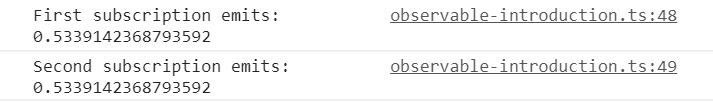
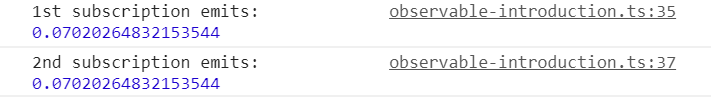
made good examples to showcase difference between cold and hot observables

diff --git a/rxjs.tex b/rxjs.tex
@@ -2,14 +2,21 @@
 Rx ist eine Library, die für zahlreiche Programmiersprachen zur Verfügung gestellt wird. Diese finden sowohl in der Frontend als auch in der Backend-Implementierung Anwendung. In dieser Arbeit wird der Fokus auf RxJS geworfen. Diese Library ist eine Erweiterung speziell für Javascript/Typescript. RxJS erlaubt es mit Hilfe von Observable-Sequenzen Event-basierte Programme zu erstellen. Dabei wird dieser Ansatz auch als reactive Programming definiert. Neben der Kernfunktionalität von Observables werden auch Subjects und Schedulers geboten. Sollte man von reactive Programming noch nichts gehört haben, dann wird die größte Herausforderung sein \glqq{}reactive\grqq{} zu denken.
 
 \subsection{Reactive Programming}
-Im Kern ist reactive Programming ein Programmierparadigma. Hierbei richtet sich das Entwickeln auf asynchrone Datenflüssen. Als Beispiel für eine reaktive Anwendung kann Excel genommen werden. Ändert man einen Wert in einer Zelle, ändert sich auch der Wert in der Summenzelle. Die Zelle, deren Wert geändert wurde, löst ein Event aus, den die Summen-Zelle empfängt. Daraufhin findet eine Neuberechnung statt.\cite{reactive-programming-beispiel} Laut der offiziellen Dokumentation richtet sich ReactiveX nach dem Beobachter-Muster (engl. Observer-Pattern). Das Observer-Pattern ist ein Entwurfsmuster, in der Änderungen eines Objektes (Subjects genannt) an einer Liste abhängiger Strukturen weitergereicht wird. Diese abhängige Strukturen (Observers) werden bei jeder Zustandsveränderung informiert. Eine Veränderung eines Objekts kann hierbei gleichgesetzt werden mit einem Datenfluss. Datenflüsse können aus verschiedensten Operationen entstehen wie z.B. Klick-Events, Variablen, Cache etc. Als Observer kann man sich in diesem Datenfluss einhängen und entsprechend reagieren.\cite{rx-intro} Rx bietet eine enorme Menge an Funktionen diese Datenflüsse zu bearbeiten/manipulieren (siehe Sektion Operatoren). Diese Operatoren komplett abzudecken wird in dieser Arbeit unmöglich sein, jedoch wird nach dem behandeln dieses Kapitels ein gewisses Grundverständnis für neue Operatoren entstehen und wie diese in Folge anzuwenden sind. Die grundlegenden Konzepte, um asynchrone Events in RxJS zu steuern, sind:
+Im Kern ist reactive Programming ein Programmierparadigma. Im \textbf{reaktiven Manifest}, zu finden unter
+
+\begin{center}
+\url{https://www.reactivemanifesto.org/de},
+\end{center}
+
+\noindent
+wird bereits beschrieben, dass Reactive Programming als Programmierung mit asynchronen, immutable Streams von Events bezeichnet wird. Laut der offiziellen Dokumentation richtet sich ReactiveX nach dem Beobachter-Muster (engl. Observer-Pattern). Das Observer-Pattern ist ein Entwurfsmuster, in der Änderungen eines Objektes (Subjects genannt) an einer Liste abhängiger Strukturen weitergereicht wird. Diese abhängige Strukturen (Observers) werden bei jeder Zustandsveränderung informiert. Eine Veränderung eines Objekts kann hierbei gleichgesetzt werden mit neuen Wert innerhalb eines Datenflusses. Als Beispiel für eine reaktive Anwendung kann Excel genommen werden. Ändert man einen Wert in einer Zelle, ändert sich auch der Wert in der Summenzelle. Die Zelle, deren Wert geändert wurde, löst ein Event aus, den die Summen-Zelle empfängt. Daraufhin findet eine Neuberechnung statt.\cite{reactive-programming-beispiel} Datenflüsse können aus verschiedensten Operationen entstehen wie z.B. Klick-Events, Variablen, Cache etc. Als Observer kann man sich in diesem Datenfluss einhängen und entsprechend reagieren.\cite{rx-intro} Rx bietet eine enorme Menge an Funktionen diese Datenflüsse zu bearbeiten/manipulieren (siehe Sektion Operatoren). Diese Operatoren komplett abzudecken wird in dieser Arbeit unmöglich sein, jedoch wird nach dem behandeln dieses Kapitels ein gewisses Grundverständnis für neue Operatoren entstehen und wie diese in Folge anzuwenden sind. Die grundlegenden Konzepte, um asynchrone Events in RxJS zu steuern, sind:
 
 \begin{itemize}
     \item Observable: Repräsentiert die Idee einer abrufbaren Sammlung, in der zukünftige Werte oder Events gelagert sind.
     \item Observer: Eine Sammlung von Callbacks die, die  aus dem Observable-Stream gelieferten Werte, abrufen.
     \item Subscription: Repräsentiert das Aufrufen eines Observable.
     \item Operators: Funktionen, die das Verhalten von Observable-Streams beeinflussen.
-    \item Subjects: Eventgeneratoren, die Events an zuhörende Observer zurückgibt. Im Gegensatz zu Observables, ist hier ein Multicasting der Werte an die Observer möglich.
+    \item Subjects: Eventgeneratoren, die Events an zuhörende Observer zurückgibt. Im Gegensatz zu Observables, sind Subjects standardmäßig multicasting fähig.
     \item Schedulers: Steuerungsmechanismen die bestimmen, wann eine Subscription startet und wann Werte aus dem Stream an die Observer übermittelt werden.
 \end{itemize}
 
@@ -27,7 +34,7 @@ Observables sind eine träge Sammlung von multiplen Werten. Sie füllen den fehl
 \end{center}
 
 \noindent
-Das Push- und Pull-Prinzip beschreibt dabei wie ein Daten-Produzent mit dem Daten-Verarbeiter kommuniziert. In \textbf{Pull-Systemen} bestimmt der Verarbeiter, wann die Daten vom Ersteller angenommen werden. Der Ersteller selbst weiß nicht wann die Daten angefragt werden. Jede Javascript Funktion unterliegt einem Pull-System. Die Funktion ist ein Verarbeiter von Daten und diese kann im Code jederzeit abgerufen werden.\\
+Das Push- und Pull-Prinzip beschreibt dabei wie ein Datenproduzent mit dem Datenverarbeiter kommuniziert. In \textbf{Pull-Systemen} bestimmt der Verarbeiter, wann die Daten vom Ersteller angenommen werden. Der Ersteller selbst weiß nicht wann die Daten angefragt werden. Jede Javascript Funktion unterliegt einem Pull-System. Die Funktion ist ein Verarbeiter von Daten und diese kann im Code jederzeit abgerufen werden.\\
 
 \noindent
 Das \textbf{Push-Prinzip} wird im nächsten Beispiel deutlich. Vor dem Ausführen des Beispiels muss folgend konfiguriert werden:
@@ -88,7 +95,7 @@ Bei einer Subscription können drei verschiedene Events auftreten und somit drei
 \end{itemize}
 
 \noindent
-In Push-Systemen steuert der Daten-Produzent, wann die Daten an die Zuhörenden übermittelt werden. Der Daten-Verarbeiter weiß dabei nicht, wann die Daten ankommen. Promises sind ein typisches Beispiel für Push-Systeme. Ein Promise (Produzent) übermittelt einen eingetroffenen Wert an angeschlossene Callbacks( Verarbeiter). Ungleich wie mit Funktionen bestimmen Promises, wann die Werte an die Callbacks weitergereicht wird. Observables zählen zu einem neuen Push-System in Javascript. Im Gegensatz zu Promises emittieren Observables multiple Werte in Form von Streams. Zur Unterscheidung:
+In Push-Systemen steuert der Datenproduzent, wann die Daten an die Zu-hörenden übermittelt werden. Der Datenverarbeiter weiß dabei nicht, wann die Daten ankommen. Promises sind ein typisches Beispiel für Push-Systeme. Ein Promise (Produzent) übermittelt einen eingetroffenen Wert an angeschlossene Callbacks (Verarbeiter). Ungleich wie mit Funktionen bestimmen Promises, wann die Werte an die Callbacks weitergereicht wird. Observables zählen zu einem neuen Push-System in Javascript. Im Gegensatz zu Promises emittieren Observables multiple Werte in Form von Streams. Zur Unterscheidung:
 
 \begin{itemize}
 \item Eine Funktion ist eine träge ausführende Operation, die beim Abruf ein Wert synchron zurückgibt.
@@ -97,7 +104,7 @@ In Push-Systemen steuert der Daten-Produzent, wann die Daten an die Zuhörenden 
 \end{itemize}
 
 \noindent
-Hierbei stellt sich die Frage, was bedeutet träge? Träge Funktionen, im englischen auch als \textit{lazy Functions} bezeichnet, sind Funktionen die erst bei ihrem Aufruf Werte produzieren. Beispiel:
+Hierbei stellt sich die Frage, was bedeutet träge? Träge Funktionen, im englischen auch als \textit{lazy Functions} bezeichnet, sind Funktionen die erst bei ihrem Aufruf Werte produzieren.\cite{lazy-functions}
 
 \begin{figure}[H]
 \begin{lstlisting}[basicstyle=\small]
@@ -111,7 +118,6 @@ console.log(x);
 const y = foo.call(this); // same as foo()
 console.log(y);
 \end{lstlisting}
-\caption{Funktionen sind träge. \cite{lazy-functions}}
 \end{figure}
 
 \begin{figure}[H]
@@ -128,11 +134,11 @@ foo.subscribe((y) => {
   console.log(y);
 });
 \end{lstlisting}
-\caption{Observables verhalten sich gleich.}
 \end{figure}
 
 \noindent
 Der Output bleibt immer derselbe:
+
 \begin{figure}[H]
 \begin{center}
 \includegraphics{observable-lazy-console}
@@ -144,27 +150,25 @@ Das liegt daran, da sowohl Funktionen als auch Observables träge sind. Die Oper
 Der Hauptpunkt in dem Observables sich von Funktionen unterscheiden ist, dass Observables mehrere Werte (mit der Zeit) emittieren können. Innerhalb einer Funktion ist es nicht Möglich zwei return Ausdrücke einzubauen, die zusammen ausgegeben werden.
 
 \subsubsection{Anatomie eines Observable}
-Observables werden entweder mit der create Methode, mit einer Observable-Instanz oder mit der Hilfe eines Observable Operators \textbf{erstellt}. Der Datenfluss wird an den Observern mit der subscribe()-Methode \textbf{überreicht}. Als Letztes kann ein Observable und somit sein Datenfluss \textbf{geschlossen} werden.
+Observables werden entweder mit der create Methode, mit einer Observable-Instanz oder mit der Hilfe eines Observable Operators \textbf{erstellt}. Die Sequenzkette wird an den Observern mit der subscribe()-Methode \textbf{überreicht}. Letzteres kann ein Observable \textbf{abgesetzt} werden.
 
 \subsubsection{Observables erstellen}
 
 \begin{figure}[H]
 \begin{lstlisting}[basicstyle=\small]
-const root = new Observable<string>(observer => {
-    setInterval(() => observer.next('hi'), 2000);
+const randomNumber = new Observable<number>(observer => {
+    observer.next(Math.random());
 });
-
-root.subscribe((val: string) => console.log(val));
 \end{lstlisting}
-\caption{Observables verhalten sich gleich.}
+\caption{Instantiierung eines Observables, als Parameter wird ein Callback angenommen.}
 \end{figure}
 
 \noindent
-Die statische Methode Observable.create() ist ein alias ist zum Konstruktor-Aufruf. Für gewöhnlich werden jedoch Operatoren mit den sog. \textit{creation operators} wie \textbf{of}, \textbf{from}, \textbf{interval} etc. erstellt. In dem oben angeführten Beispiel wird zudem die subscribe()-Methode aufgerufen, um die Stream-Werte abzurufen. Im nächsten Abschnitt wird erklärt, wie genau eine Subscription abläuft.\\
+Die statische Methode Observable.create() ist ein alias ist zum Konstruktor-Aufruf. Für gewöhnlich werden jedoch sog. \textit{creation operators} wie \textbf{of}, \textbf{from}, \textbf{interval} etc. angewendet, um Observables zu erstellen. Im nächsten Abschnitt werden die verschiedenen Observable-Typen gegenübergestellt.
 
-\subsubsection{Observables überreichen}
+\subsubsection{Sequenzkette überreichen}
 
-Beim Aufruf der subscribe()-Methode wird ein eigenständiger Datenfluss an den Observer überreicht. Das hat zur Folge, dass Observer sich dem gleichen Observable-Stream anschließen und dennoch unterschiedliche Werte bekommen können.
+Beim Aufruf der subscribe()-Methode überreicht der Datenproduzent ein eigenständigen Datenfluss an die Observer. Das hat zur Folge, dass mehrere Observer sich dem gleichen Observable anschließen und dennoch unterschiedliche Werte bekommen können.
 
 \begin{figure}[H]
 \begin{lstlisting}[basicstyle=\small]
@@ -172,13 +176,20 @@ const randomNumber = new Observable<number>(observer => {
     observer.next(Math.random());
 });
 
-randomNumber.subscribe(value => console.log('First subscription emits: ' + value));
-randomNumber.subscribe(value => console.log('Second subscription emits: ' + value));
+randomNumber.subscribe(value =>
+    console.log('1st subscription emits: ', value));
+randomNumber.subscribe(value =>
+    console.log('2nd subscription emits: ', value));
 \end{lstlisting}
 \end{figure}
 
+\begin{figure}[H]
+\begin{center}
+\includegraphics[width=12cm]{unicasting-observables}
+\end{center}
+\end{figure}
 \noindent
-Diese Eigenschaft wird als \textbf{unicasting} bezeichnet. Das ist nur Möglich, da die Funktion random() erst dann aufgerufen wird, wenn ein Observable mit der subscribe()-Methode aufgerufen wird. Es gibt nun mehrere Möglichkeiten, dass sich Observers den gleichen Datenfluss teilen. Eine Möglichkeit wäre, den Datenproduzent außerhalb des Observables auszulagern. 
+Das Ergebnis sind zwei verschiedene Werte, bei zwei Subscriptions an einem Observable. Diese Eigenschaft wird als \textbf{unicasting} bezeichnet. Das ist nur Möglich, da die Funktion random() erst dann aufgerufen wird, wenn ein Observable mit der subscribe()-Methode aufgerufen wird. Somit hat jede Subscription einen eigenen Datenproduzent. Es gibt nun mehrere Möglichkeiten, dass sich Observers den gleichen Datenfluss teilen. Eine Möglichkeit wäre, den Datenproduzent außerhalb des Observable auszulagern. 
 
 \begin{figure}[H]
 \begin{lstlisting}[basicstyle=\small]
@@ -196,29 +207,52 @@ Eine elegantere Variante, wäre ein Operator anzuwenden, der den zuletzt eingetr
 
 \begin{figure}[H]
 \begin{lstlisting}[basicstyle=\small]
-const randomNumber = new Observable<number>(observer => {
-    observer.next(Math.random());
-});
+const multicast = randomNumber.pipe(shareReplay());
 
-const hot = randomNumber.pipe(shareReplay());
-
-...
+multicast.subscribe(value =>
+    console.log('1st subscription emits: ', value));
+multicast.subscribe(value =>
+    console.log('2nd subscription emits: ', value));
 \end{lstlisting}
 \end{figure}
 
 \noindent
-Nun können multiple Subscriptions am gleichen Stream, die gleichen Werte empfangen. Diese Eigenschaft wird auch als \textbf{multicasting} bezeichnet. Das Ergebnis sieht wie folgt aus:
+Nun können multiple Subscriptions am Observable die gleiche Sequenzkette empfangen, da shareReplay() dafür sorgt, dass der Datenproduzent nur einmal aufgerufen wird. Diese Eigenschaft wird auch als \textbf{multicasting} bezeichnet. Das Ergebnis sieht wie folgt aus:
 
 \begin{figure}[H]
 \begin{center}
-\includegraphics{multicasting-observables}
+\includegraphics[width=12cm]{multicasting-observables}
 \end{center}
 \end{figure}
 
 \noindent
-Wenn Werte eines Streams erst beim Aufruf einer Subscription entstehen, handelt es sich hierbei um \textbf{cold Observables}.\cite{hot-vs-cold-observable} Dies ist in jedem der oben angeführten Beispiele der Fall. Um auf die oben angeführte These zurückzukommen, dass Observables träge sind, war dies zwar zum Einstieg in die Thematik zwar  hilfreich, aber nur die halbe Wahrheit. Observables können Werte emittieren auch ohne der subscribe()-Methode. Das bedeutet es werden Werte ausgestoßen, unabhängig davon ob eine Subscription stattfindet oder nicht. 
+Wenn Werte eines Streams erst beim Aufruf einer Subscription entstehen, handelt es sich hierbei um \textbf{cold Observables}.\cite{hot-vs-cold} Dies ist in jedem der oben angeführten Beispielen der Fall. Um auf die oben angeführte These zurück-zukommen, dass Observables träge sind, war dies zwar zum Einstieg in die Thematik hilfreich, aber nur die halbe Wahrheit. Observables können Werte emittieren auch ohne der subscribe()-Methode. Das bedeutet es werden Werte ausgestoßen, unabhängig davon ob eine Subscription stattfindet oder nicht. Hierbei würde es sich um ein \textbf{hot Observable} handeln. Um einen besseren Einblick zu bekommen, wird ein Observable erstellt, dass unendlich viele Werte ausstößt.
+
+\begin{figure}[H]
+\begin{lstlisting}[basicstyle=\small]
+const infinite = RxJS.interval(1000).pipe(publish()) as ConnectableObservable<number>;
+infinite.connect();
+
+setTimeout(() =>
+    infinite.subscribe(v => console.log('1st subscriber:', v)), 2000);
+setTimeout(() =>
+    infinite.subscribe(v => console.log('2nd subscriber: ', v)), 3000);
+\end{lstlisting}
+\end{figure}
+
+\noindent
+Die statische Methode interval() erstellt ein Observable, dass aufsteigend Nummern ausgibt innerhalb eines festgelegten Intervalls. Der Startindex ist 0. Die publish()-Funktion sorgt dafür, dass der Datenproduzent an die verschiedenen Subscriptions geteilt wird. In diesem Fall wird das Observable auch in einem \textbf{connectable Observable} umgewandelt. Das heißt es werden erst Werte innerhalb der Sequenzkette emittiert, sobald die entsprechende connect()-Methode am Observable aufgerufen wird.\\
+
+\begin{figure}[H]
+\begin{center}
+\includegraphics[width=12cm]{hot-observable}
+\end{center}
+\end{figure}
 
 
+
+\noindent
+Wie man nun gesehen hat hängt es vom Observable ab, wann die Sequenz von Werten emittiert werden. Ein hot Observable könnte Werte ausstoßen, sobald es erstellt wird. Und deshalb könnten Observers, die sich später am Observable-Stream einhängen, Werte zwischenzeitlich verpassen. Wenn der gleiche Datenproduzent über verschiedene Subscriptions genutzt wird, ist dies ebenfalls ein Indikator dafür, dass es sich um ein hot Observable handeln könnte. Ein cold Observable dagegen wartet mit dem emittieren der Werte, bis eine Subscription eines Observers stattgefunden hat. Dieser Observer empfängt dementsprechend die gesamten Werte der Sequenzkette. In manchen Versionen von Rx gibt es auch die Bezeichnung connectable Observable. In solchen Fällen werden erst dann Werte emittiert, wenn die abhängige connect()-Methode aufgerufen wurde, unabhängig davon ob eine Subscription an dem Observable stattfindet oder nicht.\cite{hot-vs-cold-part-2}
 
 \noindent
 \begin{center}

diff --git a/async-await.tex b/async-await.tex
@@ -22,7 +22,7 @@ async function hello() {
 \noindent
 Der async Ausdruck an einer Funktion wandelt den Rückgabetyp T in ein Promise\textless T\textgreater um. Um explizit und implizit ein Promise\textless string\textgreater zu verwenden, könnte man beispielsweise ein Promise.resolve('world') ausliefern. Eine asynchrone Funktion kann zudem einen \textbf{await} Ausdruck enthalten. Dies lässt die asynchrone Funktion pausieren bis der übergebene Promise eingetroffen ist. Daraufhin wird die Ausführung der Funktion mit dem zurückgegeben Wert des Promise fortgesetzt. Ein await ist nur innerhalb einer async Funktion valide einsetzbar. Ein einfaches Beispiel zum Verständnis:\\
 
-\subsubsection{Funktionsweise}
+\subsection{Funktionsweise}
 
 \noindent
 Vor dem Ausführen des Beispiels sollte wieder die introduction.ts als Eingangsdatei in der webpack.config.js definiert werden.
@@ -98,7 +98,7 @@ getFirstSections();
 \noindent
 Ohne jeglicher Verkettung wird mit dem await Konstrukt auf die Promise Auflösung gewartet und der entstandene Wert als Parameter in der Methode spawn() übergeben. Daraufhin wird weiter in der Schleife iteriert. Zudem bietet der try-catch-Block auch finally an. Ähnlich wie bei der Promise-Prototyp Methode wird unabhängig vom Ausgang des try-catch-Blocks in dem finally-Block vorrangeschreitet.
 
-\subsubsection{Einsetzen wenn sinnvoll}
+\subsection{Einsetzen wenn sinnvoll}
 
 Beim Einsetzen von async await muss sich vor Augen geführt werden, wann ein Einsatz als solches Sinn ergibt. Kommt man wieder zum Anwendungsfall, man möchte die ersten fünf Kapitel parallel in die DOM laden, würde der Code hierfür so aussehen:
 
